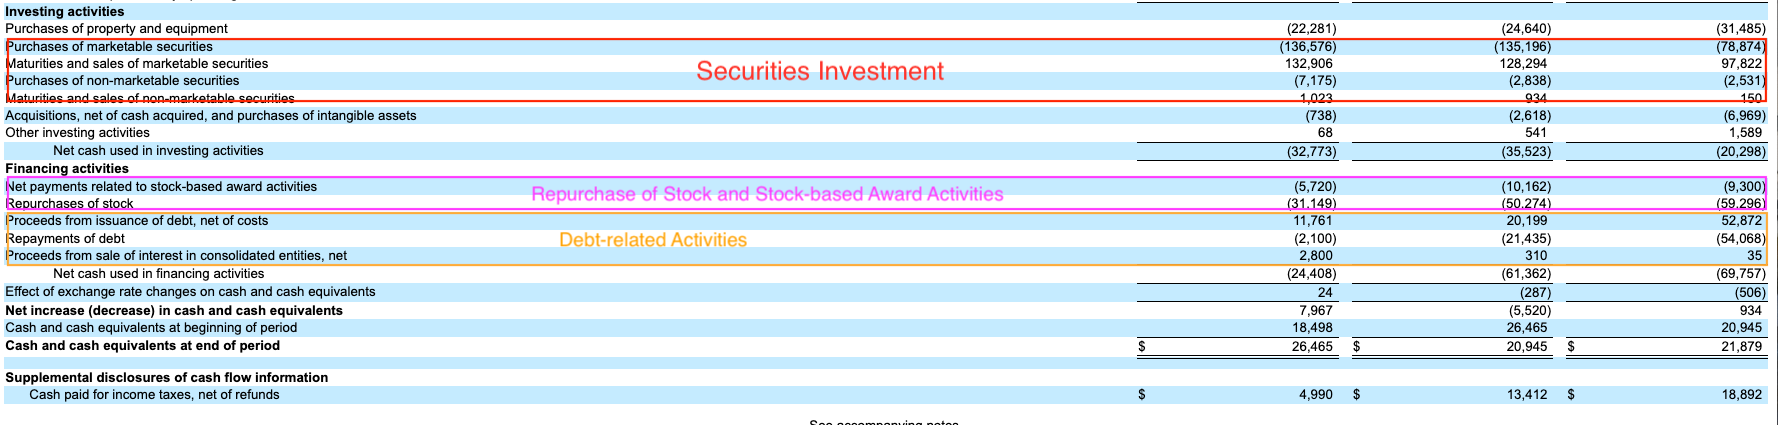
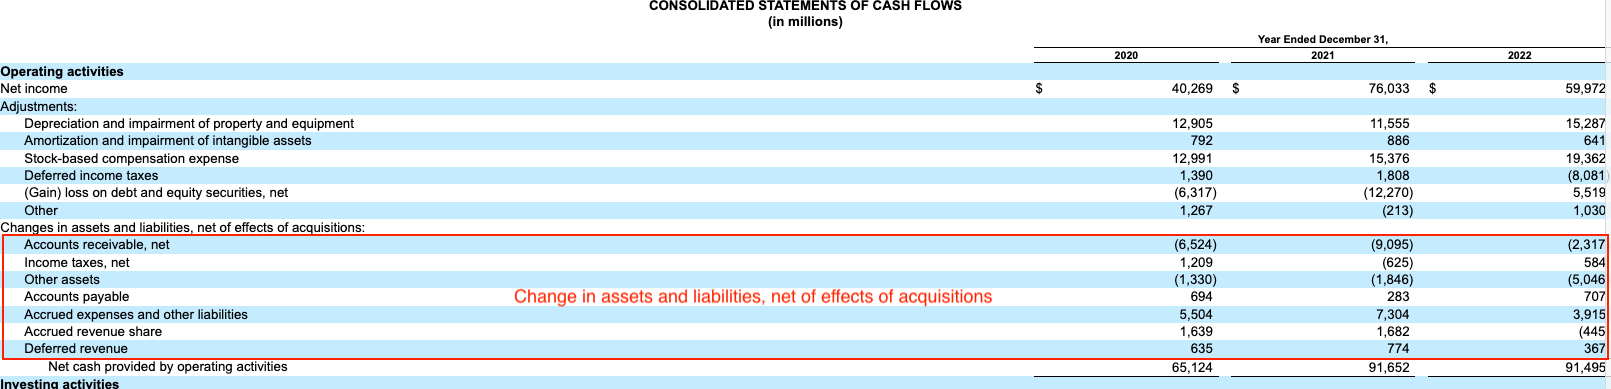
Prepare readme for v0.0.3

diff --git a/dashboard/data/googl/readme.md b/dashboard/data/googl/readme.md
@@ -34,25 +34,70 @@ Here are the templates:
 	<li>googl_cashflow_template.csv</li>
 </ul>
 
-<br><br>
-More details are coming soon...
-
 ## Data Prepartion
-Coming soon...
+For the current version, data is expected to be added to the sample data CSV files (Files with name end with <b>\_example.csv</b>). Data preparers are expected to copy the format from the template files (Files with name end with <b>\_template.csv</b>), and copy the numbers from 10-K or 10-Q without changing the signs. All entries across all periods (No matter annual data or quarterly data) are saved under one file of its corresponding statement. Please do not separate the files into different period, the backend expects the period differentiate by the value under the <i>Period</i> column. For example, you may copy the format <i>googl_income_template</i>, less the header, from the file. Then, replace period value with the period you are providing. And lastly, enter the value from the source. Each row represents an entry of one of the statements from 10-K or 10-Q, however, there are some entries are combined. Please refer to the individual statement dataset section for detail. If you want to add the entries from another period, please copy the format, less the header, and append to the same dataset file.
+
+### Income Statement Dataset
+You may find all the cost expenses, EBIT, and net income values from the consolidated statement of income section of the report. The segmented income value maybe obtained from the supplemental section (Disaggregated Revenues under the Revenue sections) after the consolidated statement sections. No field is combined in this visualization setup.
+
+<img src=Images/googl_disagg_income.png>
+
+### Balance Sheet Dataset
+You may find all balance sheet entries, except the <i>Other Long-term Liabilities</i> column, and Retained earning from the consolidated balance sheets section. All assets and liabilities values may be retreived from the balance and directly copy the value to the dataset. 
+<br><br>
+There are 2 entries required summing their dependent columns:
+<ul>
+	<li>Other Long-term Liabilities (Node 25): Sum of Income Taxes Payable, non-current, Deferred Income Taxes, non-current, and Other Long-term Liabilities</li>
+	<li>Common Stocks (Node 27): Sum of Preferred Stock, all classes shares issued and outstanding, and Accumulated other comprehensive income</li>
+</ul>
+
+<br>
+Here are visual explaination:
+
+<img src=Images/googl_balsht_cal1_explain.png>
+<br>
+<b>Note</b>: We noticed that <i>Intangible Assets, net</i> has been stopped reporting in the FY23 10-K and onward. It is okay to leave the value to be 0, or omit the whole entry. In the sample dataset, such entry is omitted for FY23 and onward.
+
+### Cash Flow Statement Dataset
+You may find all values required by the cash flow statement in the consolidated statements of cash flow section. Please copy the data without changing the signs for all values.
+<br><br>
+There are 5 entries required summing their dependent columns or name change:
+<ul>
+	<li>Change in Assets and Liailities, net of effects of Acquisitions (Node 7): They are sum of:
+		<ul>
+			<li>Accounts Receivable, net</li>
+			<li>Income Taxes, net</li>
+			<li>Other assets</li>
+			<li>Account Payable, net</li>
+			<li>Accrued expense and other liabilities</li>
+			<li>Deferred Revenue</li>
+		</ul>
+	</li>
+	<li>Capital Expenditure (Node 13): Purchase of Property and Equipment</li>
+	<li>Securities Investment (Node 14): Sum of Purchases of marketable securities, Maturities of securities, Purchase of non-marketable securities, and Maturities of non-marketable securities</li>
+	<li>Repurchase of Stock and Stock-based Award Activities (Node 17): Sum of Net Payment to award activities, and Purchase of stock</li>
+	<li>Debt-related Activities (Node 18): Sum of Net Payment to award activities, and Repurchase of stock</li>
+</ul>
+
+<br>
+Here are visual explaination:
+
+<img src=Images/googl_cshfsmt_cal1_explain.png>
+<img src=Images/googl_cshfsmt_cal2_explain.png>
+
 
 
 ## Nodes Explained
-Coming soon...
+In the Plotly sankey chart package, nodes represents a categorical entry while the links represents the value between the nodes. The nodes in this setting are generally represents the positions of the charts from left to right. It is designed in way to make scripts creation and modification clear, and especially to emphasize the hierarchy among nodes and have user's input data on either furthest left or furthest right of the chart.
 
 ### Nodes Definitions
-The nodes used in the sankey charts are defined in the json files - <i>nodes_googl_incsmt.json</i>, <i>nodes_googl_balsht.json</i>, and <i>nodes_googl_cshfsmt.json</i>, respective to income statement, balance sheet, cashflow statement. The definitions are responsible to map the datasets to the node definitions. More instructions will be coming soon...
+The nodes used in the sankey charts are defined in the json files - <i>nodes_googl_incsmt.json</i>, <i>nodes_googl_balsht.json</i>, and <i>nodes_googl_cshfsmt.json</i>, respective to income statement, balance sheet, cashflow statement. The definitions are responsible to map the datasets to the node definitions. Data prepare will not need to interact these files. In the coming subsections will provide the visualization of the nodes definitions of the corresponding sankey chart structures.
 
 ### Income Statment
 The definitions of nodes used for Google's income statement sankey charts can be found in <i>nodes_googl_incsmt.json</i>, and here is the visualization of the node relation.
 <br>
 
 <img src=Images/googl_incsmt_sankey.png>
-<img src=Images/googl_incsmt_example.png>
 
 ### Balance Sheet
 The definitions of nodes used for Google's balance sheet sankey charts can be found in <i>nodes_googl_balsht.json</i>, and here is the visualization of the node relation.
@@ -60,20 +105,16 @@ The definitions of nodes used for Google's balance sheet sankey charts can be fo
 
 <img src=Images/googl_bal_sankey.png>
 
-<br>
-<b>Note</b>: We noticed that <i>Intangible Assets, net</i> has been stopped reporting in the FY23 10-K and onward. It is okay to leave the value to be 0, or omit the whole entry. In the sample dataset, such entry is omitted for FY23 and onward.
 
 ### Cash Flow Statement
 The definitions of nodes used for Google's cashflow statement sankey charts can be found in <i>nodes_googl_cshfsmt.json</i>, and here is the visualization of the node relation.
 <br>
 
 <img src=Images/googl_cshfsmt_sankey.png>
-<img src=Images/googl_cshfsmt_cal1_explain.png>
+
 
 ## Scripts
-More instructions are coming soon...<br>
-Here are the scripts used:
-
+Here are the scripts utilized by <i>dashboard.py</i>:
 <ul>
 	<li><i>income_googl.py</i>: Organizate income statement data at <i>data_incsmt_googl.py</i> and generate sankey chart figure object.</li>
 	<li><i>balance_sheet_googl.py</i>: Organizate balance sheet data at <i>data_balsht_googl.py</i> and generate sankey chart figure object.</li>
@@ -83,6 +124,8 @@ Here are the scripts used:
 	<li><i>data_cshfsmt_googl.py</i>: Assign links metadata for the cashflow statement sankey charts.</li>
 </ul>
 
+<br><br>
+More explantations on nodes aggregations are coming soon...<br>
 
 
 ## Reference

diff --git a/dashboard/data/template/readme.md b/dashboard/data/template/readme.md
@@ -1,0 +1,15 @@
+# Plug-in Templates
+Coming soon...
+
+## Instructions
+The general workflows of creating a plug-in that is integratable to the dashboarding scripts are:
+<ol>
+	<li>Create a folder, name it with the ticker of the company in lower cases</li>
+	<li>Within the folder, create another folder named <i>dataset</i> in lower cases</li>
+	<li>Create two scripts to handle income statement data and chart. More details are coming soon...</li>
+	<li>Create two scripts to handle balance sheet data and chart. More details are coming soon...</li>
+	<li>Create two scripts to handle cashflow statement data and chart. More details are coming soon...</li>
+</ol>
+
+<br><br>
+When writing scripts on preparing data for charting, the rule of thumb is to ingest lower granularity data (Node numbers are either in the beginning or at the end). More details are coming soon...

diff --git a/dashboard/data/Readme.md b/dashboard/data/Readme.md
@@ -3,3 +3,6 @@ This is the Data folder where the dashboard administrator will be preparing the 
 
 ## Google (GOOGL)
 The Google folder contains the supporting scripts to create sankey charts on the dashboard, as well as the dataset templates and sample datasets. More instruction in the [Google](googl) folder.
+
+## Template
+If you would like to add more company options, you may create more plug-ins. Here are the instructions and guidelines in the [Template](template) folder. Details are coming coming soon...
